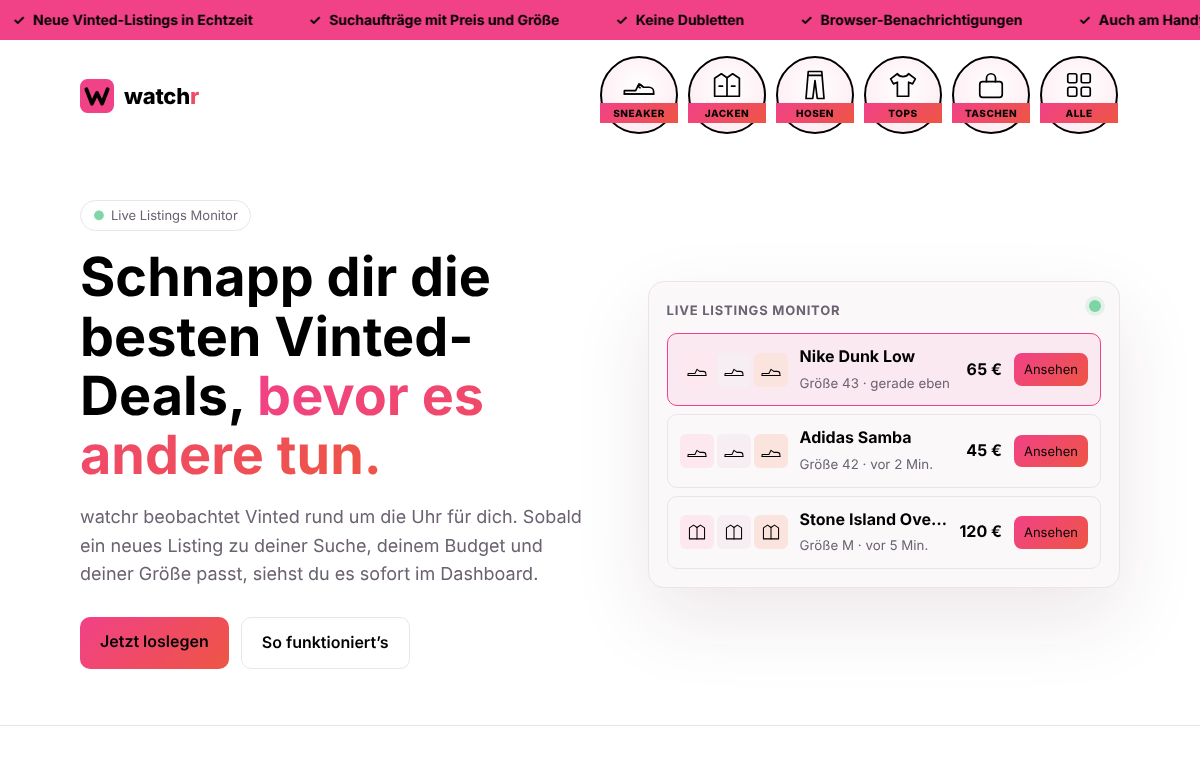
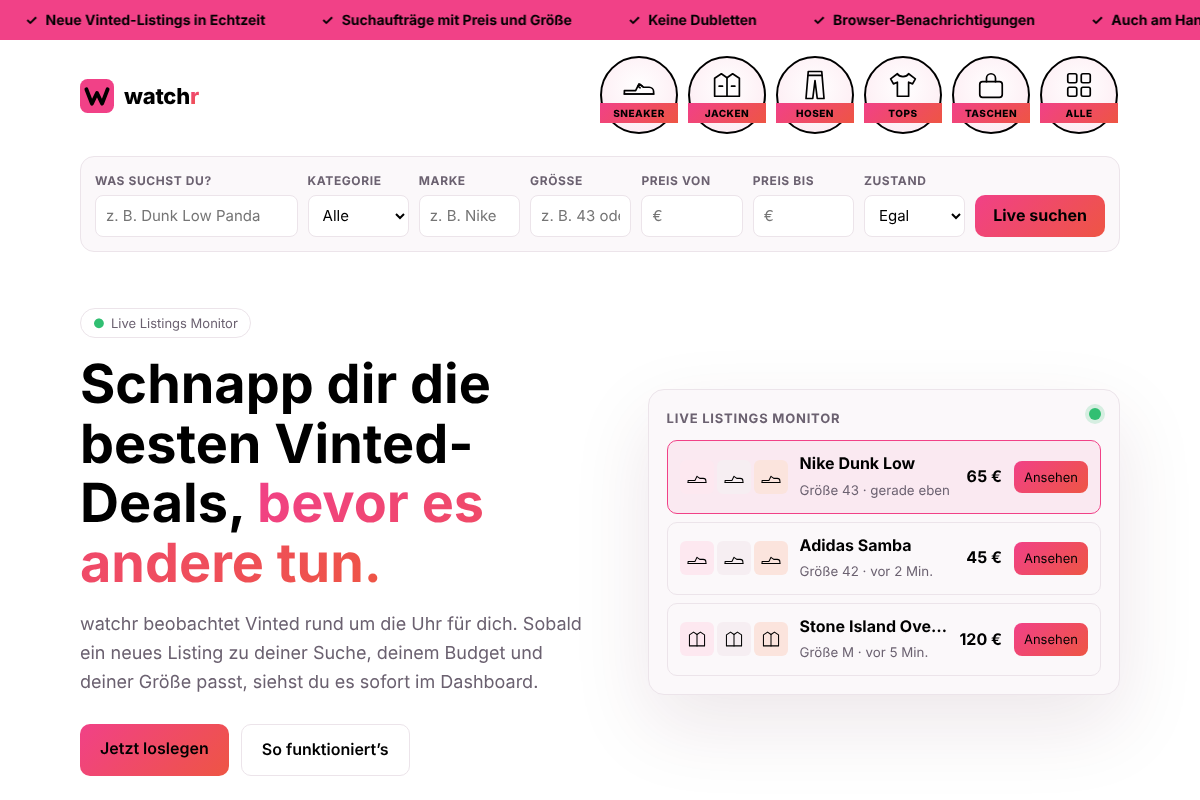
Suchleiste mit Kategorie, Marke, Größe, Preisspanne und Zustand
Claude-Session: https://claude.ai/code/session_01Jm3EMbCc8qq6Qj2dKo6KDy

diff --git a/public/landing.html b/public/landing.html
@@ -101,6 +101,18 @@
     .pics i.t1 { background: #f6eef2; } .pics i.t2 { background: #fbe4dd; }
     .pics svg { width: 22px; height: 22px; }
     @media (max-width: 520px) { .hit { grid-template-columns: minmax(0,1fr) auto auto; } .pics { grid-column: 1 / -1; } }
+    /* Suchleiste */
+    .finder { display: grid; grid-template-columns: 2fr repeat(6, minmax(0, 1fr)) auto; gap: 10px; align-items: end;
+      background: var(--panel); border: 1px solid var(--line); border-radius: 14px; padding: 14px; margin: 4px 0 8px; }
+    .finder label { display: flex; flex-direction: column; gap: 4px; min-width: 0; }
+    .finder label span { font-size: 12px; font-weight: 700; color: var(--muted); text-transform: uppercase; letter-spacing: .05em; }
+    .finder input, .finder select { font: inherit; font-size: 15px; color: var(--text); background: var(--bg); border: 1px solid var(--line);
+      border-radius: 8px; padding: 0 10px; height: 42px; min-width: 0; width: 100%; }
+    .finder input:focus, .finder select:focus { outline: 2px solid var(--pink); outline-offset: -1px; }
+    .finder .btn { border: 0; cursor: pointer; font: inherit; font-weight: 700; height: 42px; padding: 0 18px; white-space: nowrap; }
+    .f-err { grid-column: 1 / -1; margin: 0; color: #b4232f; font-size: 14px; }
+    @media (max-width: 980px) { .finder { grid-template-columns: repeat(3, minmax(0, 1fr)); } .finder .f-q { grid-column: 1 / -1; } .finder .btn { grid-column: span 2; } }
+    @media (max-width: 520px) { .finder { grid-template-columns: repeat(2, minmax(0, 1fr)); } .finder .btn { grid-column: 1 / -1; } }
   </style>
 </head>
 <body>
@@ -117,6 +129,17 @@
       <a class="cat" href="./"><svg viewBox="0 0 64 64" fill="none" stroke="#000" stroke-width="3" stroke-linejoin="round" stroke-linecap="round" aria-hidden="true"><rect x="12" y="12" width="16" height="16" rx="3"/><rect x="36" y="12" width="16" height="16" rx="3"/><rect x="12" y="36" width="16" height="16" rx="3"/><rect x="36" y="36" width="16" height="16" rx="3"/></svg><span>Alle</span></a>
     </div>
     </nav>
+    <form class="finder" id="finder" aria-label="Artikel genauer suchen">
+      <label class="f-q"><span>Was suchst du?</span><input id="s-q" name="q" placeholder="z. B. Dunk Low Panda" maxlength="120" /></label>
+      <label><span>Kategorie</span><select id="s-cat" name="cat"><option value="">Alle</option><option>Sneaker</option><option>Jacke</option><option>Hose</option><option>Pullover</option><option>Tasche</option></select></label>
+      <label><span>Marke</span><input id="s-brand" name="brand" placeholder="z. B. Nike" maxlength="60" /></label>
+      <label><span>Größe</span><input id="s-size" name="size" placeholder="z. B. 43" maxlength="40" /></label>
+      <label><span>Preis von</span><input id="s-min" name="min" type="number" min="1" step="1" placeholder="€" /></label>
+      <label><span>Preis bis</span><input id="s-max" name="max" type="number" min="1" step="1" placeholder="€" /></label>
+      <label><span>Zustand</span><select id="s-cond" name="cond"><option value="">Egal</option><option value="new_tags">Neu mit Etikett</option><option value="new">Neu</option><option value="very_good">Sehr gut oder besser</option><option value="good">Gut oder besser</option></select></label>
+      <button class="btn" type="submit">Live suchen</button>
+      <p class="f-err" id="s-err" hidden></p>
+    </form>
   </div>
   <div class="wrap">
 
@@ -191,5 +214,24 @@
       © 2026 watchr. Ein unabhängiges Projekt, nicht mit Vinted verbunden oder von Vinted unterstützt. „Vinted“ ist eine Marke der Vinted UAB.
     </div>
   </footer>
+  <script>
+    // Suchleiste: Filter ans Dashboard übergeben, dort wird daraus ein Suchauftrag
+    document.getElementById("finder").addEventListener("submit", (e) => {
+      e.preventDefault();
+      const f = e.target, err = document.getElementById("s-err");
+      // Die Kategorie nur als Suchwort nutzen, wenn sonst nichts angegeben ist (Titel enthalten selten „Sneaker“)
+      const q = [f.brand.value.trim(), f.q.value.trim()].filter(Boolean).join(" ") || f.cat.value;
+      const min = Number(f.min.value), max = Number(f.max.value);
+      err.hidden = true;
+      if (!q) { err.textContent = "Gib einen Suchbegriff, eine Marke oder eine Kategorie an."; err.hidden = false; return; }
+      if (min && max && min > max) { err.textContent = "„Preis von“ ist höher als „Preis bis“. Bitte tausch die Werte."; err.hidden = false; return; }
+      const p = new URLSearchParams({ q });
+      if (min) p.set("min", String(min));
+      if (max) p.set("max", String(max));
+      if (f.size.value.trim()) p.set("size", f.size.value.trim());
+      if (f.cond.value) p.set("cond", f.cond.value);
+      location.href = "./?" + p.toString();
+    });
+  </script>
 </body>
 </html>

diff --git a/src/server.ts b/src/server.ts
@@ -5,7 +5,7 @@ import { fileURLToPath, pathToFileURL } from "node:url";
 import { WebSocketServer, WebSocket } from "ws";
 import { config } from "./config.ts";
 import { openDb, type Db } from "./db.ts";
-import type { HitInput, ServerMessage } from "./types.ts";
+import { CONDITIONS, type Condition, type HitInput, type ServerMessage } from "./types.ts";
 
 const PUBLIC_DIR = fileURLToPath(new URL("../public/", import.meta.url));
 const MIME: Record<string, string> = {
@@ -35,15 +35,27 @@ async function readJson(req: http.IncomingMessage): Promise<any> {
 }
 
 function parseSearchBody(b: any, partial: boolean) {
-  const out: { query?: string; maxPrice?: number | null; size?: string | null; active?: boolean } = {};
+  const out: {
+    query?: string; minPrice?: number | null; maxPrice?: number | null;
+    size?: string | null; condition?: Condition | null; active?: boolean;
+  } = {};
   if (b.query !== undefined || !partial) {
     if (typeof b.query !== "string" || !b.query.trim()) throw new HttpError(400, "query fehlt");
     out.query = b.query.trim().slice(0, 200);
   }
-  if (b.maxPrice !== undefined) {
-    if (b.maxPrice === null || b.maxPrice === "") out.maxPrice = null;
-    else if (Number.isFinite(Number(b.maxPrice)) && Number(b.maxPrice) > 0) out.maxPrice = Number(b.maxPrice);
-    else throw new HttpError(400, "maxPrice muss eine positive Zahl sein");
+  const price = (v: any, name: string) => {
+    if (v === null || v === "") return null;
+    if (Number.isFinite(Number(v)) && Number(v) > 0) return Number(v);
+    throw new HttpError(400, `${name} muss eine positive Zahl sein`);
+  };
+  if (b.minPrice !== undefined) out.minPrice = price(b.minPrice, "minPrice");
+  if (b.maxPrice !== undefined) out.maxPrice = price(b.maxPrice, "maxPrice");
+  if (out.minPrice != null && out.maxPrice != null && out.minPrice > out.maxPrice)
+    throw new HttpError(400, "Der Mindestpreis ist höher als der Maximalpreis");
+  if (b.condition !== undefined) {
+    if (b.condition === null || b.condition === "") out.condition = null;
+    else if ((CONDITIONS as readonly string[]).includes(b.condition)) out.condition = b.condition;
+    else throw new HttpError(400, "Unbekannter Zustand");
   }
   if (b.size !== undefined) out.size = typeof b.size === "string" && b.size.trim() ? b.size.trim().slice(0, 40) : null;
   if (b.active !== undefined) out.active = !!b.active;
@@ -109,7 +121,10 @@ export function createServer(db: Db, opts = { watcherToken: config.watcherToken,
         if (path === "/searches" && req.method === "GET") return send(200, db.listSearches());
         if (path === "/searches" && req.method === "POST") {
           const b = parseSearchBody(await readJson(req), false);
-          const s = db.createSearch(b.query!, b.maxPrice ?? null, b.size ?? null);
+          const s = db.createSearch({
+            query: b.query!, minPrice: b.minPrice ?? null, maxPrice: b.maxPrice ?? null,
+            size: b.size ?? null, condition: b.condition ?? null,
+          });
           broadcastSearches();
           return send(201, s);
         }

diff --git a/public/app.js b/public/app.js
@@ -9,6 +9,8 @@ const fmtPrice = (p, cur) =>
   new Intl.NumberFormat("de-DE", { style: "currency", currency: cur || "EUR", maximumFractionDigits: p % 1 ? 2 : 0 }).format(p);
 const fmtTime = (iso) => new Date(iso).toLocaleTimeString("de-DE", { hour: "2-digit", minute: "2-digit" });
 
+const CONDITION_LABELS = { new_tags: "Neu mit Etikett", new: "Neu", very_good: "ab sehr gut", good: "ab gut" };
+
 let hits = [];
 let searches = [];
 
@@ -60,7 +62,11 @@ function renderSearches() {
       q.textContent = s.query;
       const f = document.createElement("span");
       f.className = "f";
-      f.textContent = [s.maxPrice != null && `Max. ${fmtPrice(s.maxPrice, "EUR")}`, s.size && `Gr. ${s.size}`]
+      const priceText =
+        s.minPrice != null && s.maxPrice != null ? `${fmtPrice(s.minPrice, "EUR")}–${fmtPrice(s.maxPrice, "EUR")}`
+        : s.maxPrice != null ? `Max. ${fmtPrice(s.maxPrice, "EUR")}`
+        : s.minPrice != null ? `ab ${fmtPrice(s.minPrice, "EUR")}` : null;
+      f.textContent = [priceText, s.size && `Gr. ${s.size}`, s.condition && CONDITION_LABELS[s.condition]]
         .filter(Boolean)
         .join(" · ");
       const toggle = document.createElement("button");
@@ -72,7 +78,10 @@ function renderSearches() {
       del.textContent = "✕";
       del.title = "Löschen";
       del.onclick = () => confirm(`Suchauftrag „${s.query}“ löschen?`) && api(`/api/searches/${s.id}`, "DELETE");
-      li.append(q, f, toggle, del);
+      const txt = document.createElement("div");
+      txt.className = "txt";
+      txt.append(q, f);
+      li.append(txt, toggle, del);
       return li;
     }),
   );
@@ -96,7 +105,9 @@ $("search-form").addEventListener("submit", async (e) => {
   try {
     await api("/api/searches", "POST", {
       query: fd.get("query"),
+      minPrice: fd.get("minPrice") || null,
       maxPrice: fd.get("maxPrice") || null,
+      condition: fd.get("condition") || null,
       size: fd.get("size") || null,
     });
     e.target.reset();
@@ -107,11 +118,17 @@ $("search-form").addEventListener("submit", async (e) => {
 });
 
 // Suchbegriff aus der Landingpage übernehmen (z. B. /?q=Sneaker)
-const presetQuery = new URLSearchParams(location.search).get("q");
-if (presetQuery) {
+// Filter aus der Suchleiste der Landingpage übernehmen (z. B. /?q=Sneaker&max=80&size=43&cond=new)
+{
+  const params = new URLSearchParams(location.search);
   const form = $("search-form");
-  form.query.value = presetQuery;
-  form.maxPrice.focus();
+  const map = { q: "query", min: "minPrice", max: "maxPrice", size: "size", cond: "condition" };
+  let any = false;
+  for (const [param, field] of Object.entries(map)) {
+    const v = params.get(param);
+    if (v) { form[field].value = v; any = true; }
+  }
+  if (any) form.querySelector("button").focus();
 }
 
 // Browser-Benachrichtigungen (optional)

diff --git a/src/db.ts b/src/db.ts
@@ -32,6 +32,9 @@ export function openDb(path: string) {
     );
     CREATE INDEX IF NOT EXISTS hits_detected_at ON hits(detected_at DESC);
   `);
+  const searchCols = (db.prepare("PRAGMA table_info(searches)").all() as { name: string }[]).map((c) => c.name);
+  if (!searchCols.includes("min_price")) db.exec("ALTER TABLE searches ADD COLUMN min_price REAL");
+  if (!searchCols.includes("condition")) db.exec("ALTER TABLE searches ADD COLUMN condition TEXT");
   // Ältere Datenbanken: Spalte für mehrere Bilder nachrüsten
   const cols = db.prepare("PRAGMA table_info(hits)").all() as { name: string }[];
   if (!cols.some((c) => c.name === "photo_urls")) db.exec("ALTER TABLE hits ADD COLUMN photo_urls TEXT");
@@ -39,7 +42,9 @@ export function openDb(path: string) {
   const toSearch = (r: any): Search => ({
     id: r.id,
     query: r.query,
+    minPrice: r.min_price ?? null,
     maxPrice: r.max_price,
+    condition: r.condition ?? null,
     size: r.size,
     active: !!r.active,
     createdAt: r.created_at,
@@ -70,20 +75,22 @@ export function openDb(path: string) {
       const r = db.prepare("SELECT * FROM searches WHERE id = ?").get(id);
       return r ? toSearch(r) : null;
     },
-    createSearch(query: string, maxPrice: number | null, size: string | null): Search {
+    createSearch(f: Pick<Search, "query" | "minPrice" | "maxPrice" | "size" | "condition">): Search {
       const res = db
-        .prepare("INSERT INTO searches (query, max_price, size, created_at) VALUES (?, ?, ?, ?)")
-        .run(query, maxPrice, size, new Date().toISOString());
+        .prepare("INSERT INTO searches (query, min_price, max_price, size, condition, created_at) VALUES (?, ?, ?, ?, ?, ?)")
+        .run(f.query, f.minPrice, f.maxPrice, f.size, f.condition, new Date().toISOString());
       return this.getSearch(Number(res.lastInsertRowid))!;
     },
-    updateSearch(id: number, patch: Partial<Pick<Search, "query" | "maxPrice" | "size" | "active">>): Search | null {
+    updateSearch(id: number, patch: Partial<Pick<Search, "query" | "minPrice" | "maxPrice" | "size" | "condition" | "active">>): Search | null {
       const cur = this.getSearch(id);
       if (!cur) return null;
       const next = { ...cur, ...patch };
-      db.prepare("UPDATE searches SET query = ?, max_price = ?, size = ?, active = ? WHERE id = ?").run(
+      db.prepare("UPDATE searches SET query = ?, min_price = ?, max_price = ?, size = ?, condition = ?, active = ? WHERE id = ?").run(
         next.query,
+        next.minPrice,
         next.maxPrice,
         next.size,
+        next.condition,
         next.active ? 1 : 0,
         id,
       );

diff --git a/public/style.css b/public/style.css
@@ -72,21 +72,23 @@ button.small { padding: 4px 8px; font-size: 13px; }
   .cta { grid-column: 1 / -1; text-align: center; }
 }
 
-.search-form { display: grid; grid-template-columns: minmax(0, 1fr) minmax(0, 1fr) auto; gap: 8px; }
+.search-form { display: grid; grid-template-columns: repeat(3, minmax(0, 1fr)); gap: 8px; }
 .search-form input[name=query] { grid-column: 1 / -1; }
-@media (max-width: 520px) { .search-form button { grid-column: 1 / -1; } }
-input {
+.search-form select { grid-column: 1 / 3; }
+@media (max-width: 520px) { .search-form { grid-template-columns: repeat(2, minmax(0, 1fr)); } .search-form select, .search-form button { grid-column: 1 / -1; } }
+input, select {
   font: inherit; color: var(--text); background: var(--bg); border: 1px solid var(--line);
-  border-radius: 8px; padding: 8px 10px; min-width: 0;
+  border-radius: 8px; padding: 0 10px; height: 40px; min-width: 0;
 }
-input:focus { outline: 2px solid var(--accent); outline-offset: -1px; }
+input:focus, select:focus { outline: 2px solid var(--accent); outline-offset: -1px; }
 .searches { margin-top: 12px; display: flex; flex-direction: column; gap: 6px; }
 .search {
   display: flex; align-items: center; gap: 8px; padding: 8px 10px;
   border: 1px solid var(--line); border-radius: 8px;
 }
 .search.paused { opacity: .55; }
-.search .q { flex: 1; min-width: 0; overflow: hidden; text-overflow: ellipsis; white-space: nowrap; }
-.search .f { color: var(--muted); font-size: 13px; white-space: nowrap; }
+.search .txt { flex: 1; min-width: 0; display: flex; flex-direction: column; }
+.search .q { overflow: hidden; text-overflow: ellipsis; white-space: nowrap; }
+.search .f { color: var(--muted); font-size: 13px; }
 
 .mark { width: 30px; height: 30px; flex: none; }

diff --git a/test/e2e.test.ts b/test/e2e.test.ts
@@ -15,13 +15,14 @@ const listing = (id: string, price: number, size: string | null): Listing => ({
 });
 
 test("matches: Preis und Größe", () => {
-  const s: Search = { id: 1, query: "nike", maxPrice: 80, size: "43", active: true, createdAt: "" };
+  const s: Search = { id: 1, query: "nike", minPrice: null, maxPrice: 80, size: "43", condition: null, active: true, createdAt: "" };
   assert.equal(matches(s, listing("1", 65, "43")), true);
   assert.equal(matches(s, listing("2", 85, "43")), false);
   assert.equal(matches(s, listing("3", 65, "42")), false);
   assert.equal(matches(s, listing("4", 65, "EU 43")), true);
   assert.equal(matches({ ...s, size: "M" }, listing("5", 50, "M / 38 / 10")), true);
   assert.equal(matches({ ...s, size: "42,5" }, listing("6", 50, "42.5")), true);
+  assert.equal(matches({ ...s, minPrice: 60 }, listing("7", 50, "43")), false);
 });
 
 test("Watcher → Backend → Datenbank → WebSocket", async () => {
@@ -33,9 +34,12 @@ test("Watcher → Backend → Datenbank → WebSocket", async () => {
   // Suchauftrag per API anlegen
   const created = await fetch(`${base}/api/searches`, {
     method: "POST", headers: { "Content-Type": "application/json" },
-    body: JSON.stringify({ query: "Nike Dunk", maxPrice: 80, size: "43" }),
+    body: JSON.stringify({ query: "Nike Dunk", minPrice: 20, maxPrice: 80, size: "43", condition: "very_good" }),
   });
   assert.equal(created.status, 201);
+  const createdSearch = await created.json();
+  assert.equal(createdSearch.minPrice, 20);
+  assert.equal(createdSearch.condition, "very_good");
 
   // Dashboard verbindet sich per WebSocket
   const ws = new WebSocket(`${base.replace("http", "ws")}/ws`);

diff --git a/public/index.html b/public/index.html
@@ -26,9 +26,17 @@
     <section class="panel">
       <h2>Meine Suchaufträge</h2>
       <form id="search-form" class="search-form">
-        <input name="query" placeholder="Suchbegriff, z. B. Nike Dunk" required maxlength="200" />
-        <input name="maxPrice" type="number" min="1" step="1" placeholder="Max. €" />
-        <input name="size" placeholder="Größe" maxlength="40" />
+        <input id="f-query" name="query" placeholder="Suchbegriff, z. B. Nike Dunk" required maxlength="200" />
+        <input id="f-min" name="minPrice" type="number" min="1" step="1" placeholder="Min. €" aria-label="Mindestpreis" />
+        <input id="f-max" name="maxPrice" type="number" min="1" step="1" placeholder="Max. €" aria-label="Maximalpreis" />
+        <input id="f-size" name="size" placeholder="Größe" maxlength="40" aria-label="Größe" />
+        <select id="f-cond" name="condition" aria-label="Zustand">
+          <option value="">Zustand egal</option>
+          <option value="new_tags">Neu mit Etikett</option>
+          <option value="new">Neu</option>
+          <option value="very_good">Sehr gut oder besser</option>
+          <option value="good">Gut oder besser</option>
+        </select>
         <button type="submit">+ Hinzufügen</button>
       </form>
       <p id="form-error" class="error" hidden></p>

diff --git a/src/vinted.ts b/src/vinted.ts
@@ -1,4 +1,12 @@
-import type { Search } from "./types.ts";
+import type { Condition, Search } from "./types.ts";
+
+/** Vinted-Zustands-IDs: 6 = neu mit Etikett, 1 = neu ohne Etikett, 2 = sehr gut, 3 = gut. */
+const STATUS_IDS: Record<Condition, number[]> = {
+  new_tags: [6],
+  new: [6, 1],
+  very_good: [6, 1, 2],
+  good: [6, 1, 2, 3],
+};
 
 /** Ein Listing, so wie der Watcher es aus der Datenquelle liest. */
 export interface Listing {
@@ -67,7 +75,9 @@ export class VintedSource implements Source {
       per_page: "30",
       page: "1",
     });
+    if (s.minPrice) params.set("price_from", String(s.minPrice));
     if (s.maxPrice) params.set("price_to", String(s.maxPrice));
+    for (const id of s.condition ? STATUS_IDS[s.condition] : []) params.append("status_ids[]", String(id));
 
     const res = await fetch(`https://${this.domain}/api/v2/catalog/items?${params}`, {
       headers: {
@@ -139,6 +149,7 @@ export class MockSource implements Source {
 /** Prüft, ob ein Listing zu Preis- und Größenfilter des Suchauftrags passt. */
 export function matches(s: Search, l: Listing): boolean {
   if (!Number.isFinite(l.price)) return false;
+  if (s.minPrice != null && l.price < s.minPrice) return false;
   if (s.maxPrice != null && l.price > s.maxPrice) return false;
   if (s.size) {
     if (!l.size) return false;

diff --git a/src/watcher.ts b/src/watcher.ts
@@ -48,7 +48,7 @@ export class Watcher {
     for (const [i, s] of searches.entries()) {
       if (this.stopped) break;
       if (i > 0) await sleep(jitter(3000)); // höflich: Anfragen nicht bündeln
-      const key = `${s.id}|${s.query}|${s.maxPrice}|${s.size}`;
+      const key = `${s.id}|${s.query}|${s.minPrice}|${s.maxPrice}|${s.size}|${s.condition}`;
       const listings = await this.source.search(s);
       const firstRun = !this.seen.has(key);
       const seen = this.seen.get(key) ?? new Set<string>();

diff --git a/src/types.ts b/src/types.ts
@@ -1,7 +1,13 @@
+export const CONDITIONS = ["new_tags", "new", "very_good", "good"] as const;
+export type Condition = (typeof CONDITIONS)[number];
+
 export interface Search {
   id: number;
   query: string;
+  minPrice: number | null;
   maxPrice: number | null;
+  /** Mindestzustand: new_tags, new, very_good, good (null = egal) */
+  condition: Condition | null;
   size: string | null;
   active: boolean;
   createdAt: string;

diff --git a/README.md b/README.md
@@ -31,7 +31,7 @@ Tests: `npm test` (spielt Watcher → Backend → DB → WebSocket einmal komple
 | Methode | Pfad | Zweck |
 |---|---|---|
 | GET | `/api/searches` | Suchaufträge |
-| POST | `/api/searches` | `{ "query": "Nike Dunk", "maxPrice": 80, "size": "43" }` |
+| POST | `/api/searches` | `{ "query": "Nike Dunk", "minPrice": 30, "maxPrice": 80, "size": "43", "condition": "very_good" }` (condition: `new_tags`, `new`, `very_good`, `good` oder leer) |
 | PATCH | `/api/searches/:id` | z. B. `{ "active": false }` zum Pausieren |
 | DELETE | `/api/searches/:id` | löschen |
 | GET | `/api/hits?limit=50` | letzte Treffer |
